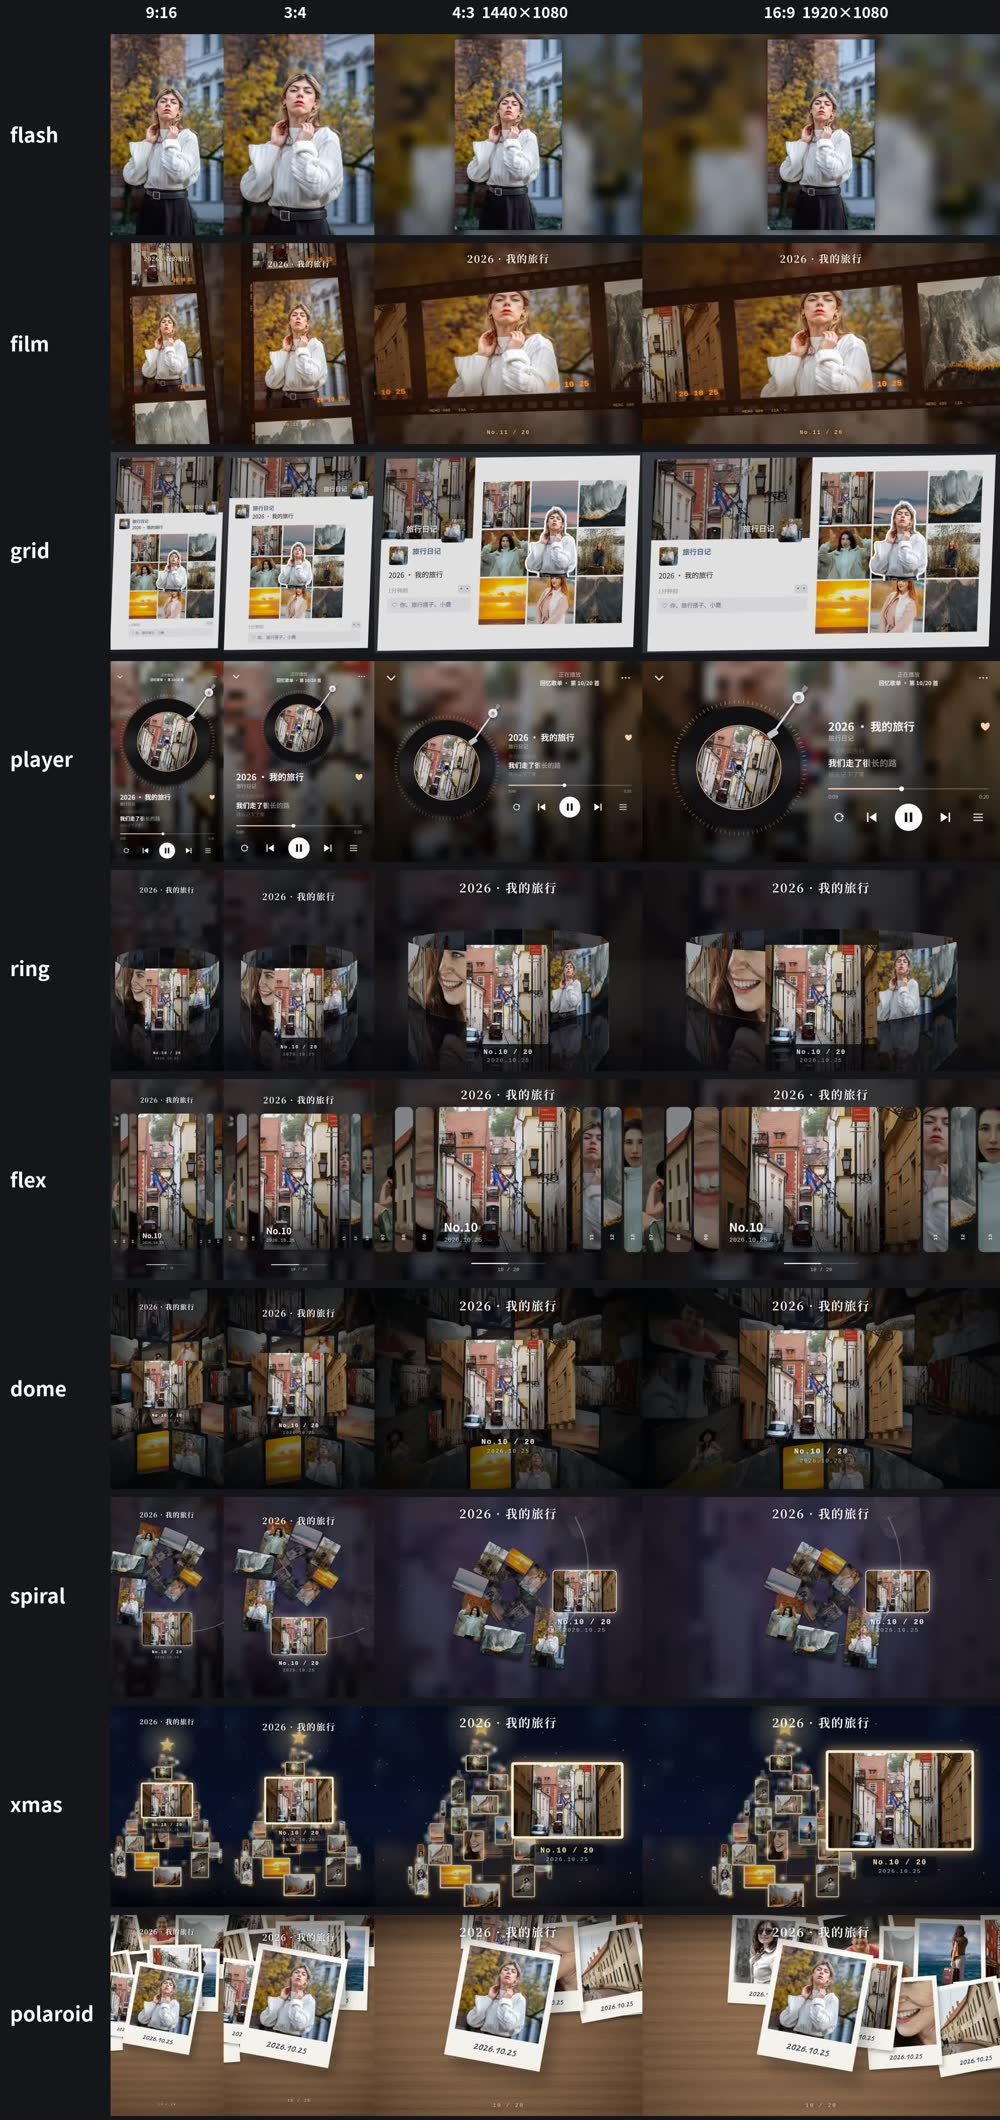
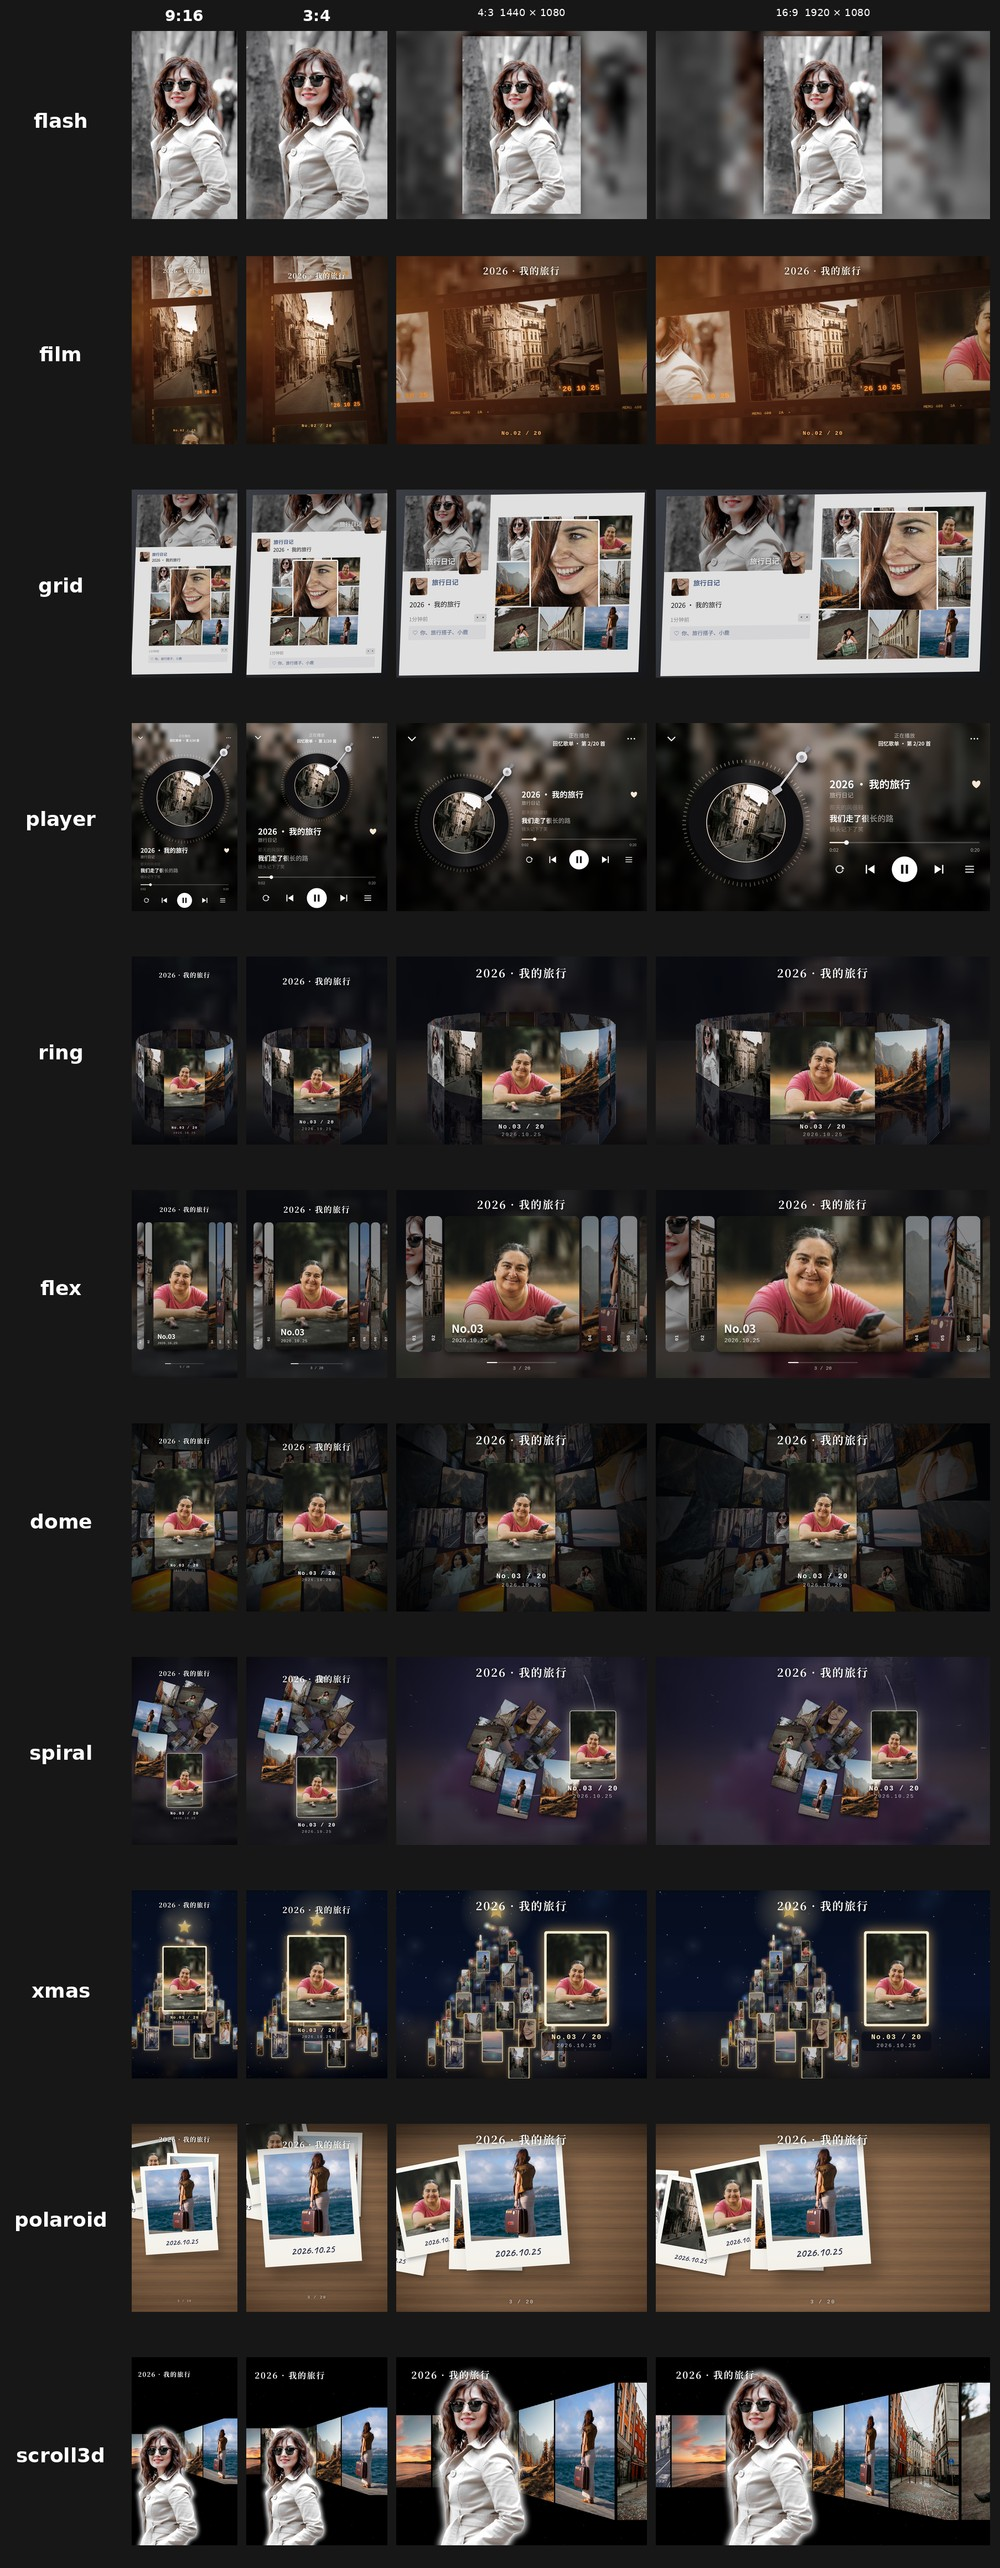
Finalize scroll3d: refresh 11-template docs collages; fix beat status for non-synced wall
- Regenerate ratios_all_templates and keyframes_all_templates to include 立体滚动照片墙
- Status bar: scroll3d no longer claims 「已按鼓点卡点」; optional pulse shows 「鼓点轻微脉动」

diff --git a/index.html b/index.html
@@ -1410,6 +1410,8 @@ REG.push((()=>{
     need(t){const G=geom(),s=new Set();for(let r=0;r<G.rows;r++)cellsOf(G,r,wrap(t),j=>s.add(st.list[j]));if(st.hero>=0)s.add(st.hero);return [...s];},
     drawFrame(c,t){ctx=c;render(wrap(t));},
     info(){return `立体滚动照片墙 · ${st.M} 张 · ${V('rows')} 排 · 无缝循环`;},
+    // 默认匀速不卡点；仅打开「鼓点轻微脉动」且已分析节拍时提示（不说「卡点」）
+    beatNote(){return (S.peaks&&V('pulse'))?' · 鼓点轻微脉动':'';},
     prepMsg:k=>`🧠 正在准备照片墙（缩小图 / 主角抠图，${k}，本机处理）…`,
     async prepare(progress){let n=await sm.prepare(k=>progress&&progress(k+'/'+S.items.length));
       for(let i=0;i<9;i++){T.init(S);if(st.kind!=='pending')break;progress&&progress('抠图 '+(i+1));n++;await SEG.segment(S.items[st.hero]);}T.init(S);return n;},
@@ -1504,7 +1506,7 @@ function buildSettings(){const box=$('tplSettings');box.innerHTML='';
     else row.innerHTML=`<label></label><span class="chk"><input type="checkbox" id="${id}"${v?' checked':''}>${s.label}</span>`;
     const el=row.querySelector('#'+id);
     el.addEventListener('input',()=>{cur.values[s.id]=s.type==='check'?el.checked:(s.type==='range'?+el.value:el.value);if(s.type==='range')row.querySelector('.val').textContent=(+el.value).toFixed(2)+' '+(s.unit||'');
-      if(s.rebuild)rebuild();if(!playing)drawIdle();renderNotices();drawThumbs();});
+      if(s.rebuild)rebuild();else if(S.items.length&&!playing)status(`${cur.info()} · 成片约 ${cur.duration.toFixed(1)} 秒`+beatSuffix());if(!playing)drawIdle();renderNotices();drawThumbs();});
     box.appendChild(row);}
   // 复选框挤在一行
   const checks=[...box.querySelectorAll('.chk')];if(checks.length>1){const r=document.createElement('div');r.className='row';r.innerHTML='<label>选项</label>';checks.forEach(c=>{c.parentNode.remove();r.appendChild(c);});box.appendChild(r);}
@@ -1516,7 +1518,7 @@ function renderNotices(){const box=$('notices');box.innerHTML='';if(demoMode||!S
 let prepRun=null;
 function prepareCur(){const T=cur;if(demoMode||!T.prepare||!S.items.length)return Promise.resolve();if(prepRun&&prepRun.T===T)return prepRun.p;
   const p=(async()=>{const n=await T.prepare(k=>{if(!playing&&T===cur)status(T.prepMsg?T.prepMsg(k):`🧠 正在自动识别人像 / 抠图（第 ${k} 张，本机运行）…`);renderNotices();drawThumbs();});
-    prepRun=null;if(T===cur){drawThumbs();renderNotices();if(n){rebuild();if(!playing)drawIdle();refreshCards();}else if(!playing)status(`${T.info()} · 成片约 ${T.duration.toFixed(1)} 秒`+(S.peaks?' · 已按鼓点卡点':''));}})();
+    prepRun=null;if(T===cur){drawThumbs();renderNotices();if(n){rebuild();if(!playing)drawIdle();refreshCards();}else if(!playing)status(`${T.info()} · 成片约 ${T.duration.toFixed(1)} 秒`+beatSuffix(T));}})();
   prepRun={T,p};return p;}
 function selectTpl(id){const T=REG.find(x=>x.id===id);if(!T)return;const was=playing;stop();cur=T;
   document.querySelectorAll('.tpl').forEach(d=>d.classList.toggle('on',d.dataset.id===id));buildSettings();rebuild();setBtns(S.items.length>0);
@@ -1524,12 +1526,14 @@ function selectTpl(id){const T=REG.find(x=>x.id===id);if(!T)return;const was=pla
 
 /* ================= 时间线 / 预览 / 导出 ================= */
 function seeded(){let s=1234567;return()=>{s=(s*16807)%2147483647;return s/2147483647}}
+// 状态栏「鼓点」文案：默认有节拍就显示「已按鼓点卡点」；模板可设 beatNote:false 关掉，或 beatNote() 返回自定义后缀（含前导「 · 」；空字符串=不显示）
+function beatSuffix(T=cur){if(typeof T.beatNote==='function')return T.beatNote()||'';if(T.beatNote===false)return '';return S.peaks?' · 已按鼓点卡点':'';}
 function rebuild(){const N=S.items.length;if(!N){return;}
   const seq=[...Array(N).keys()];if($('shuf').checked){const r=seeded();for(let i=N-1;i>0;i--){const j=Math.floor(r()*(i+1));[seq[i],seq[j]]=[seq[j],seq[i]];}}
   S.seq=seq;S.peaks=S.audioBuf?loopPeaks(S.audioBuf):null;
   for(const T of REG)T.init(S);
   if(prepRun==null&&cur.prepare)setTimeout(prepareCur,0);renderNotices();
-  status(`${cur.info()} · 成片约 ${cur.duration.toFixed(1)} 秒`+(S.peaks?' · 已按鼓点卡点':''));}
+  status(`${cur.info()} · 成片约 ${cur.duration.toFixed(1)} 秒`+beatSuffix());}
 function needSet(T,t){const s=new Set();for(const d of [0,0.5,1.0])for(const i of T.need(Math.min(T.duration-0.001,t+d)))if(i!=null)s.add(i);return s;}
 async function frameAt(T,t,c=mainCtx){await S.ensure(T.need(Math.min(t,T.duration-0.001)));T.drawFrame(c,t);}
 function drawIdle(){if(!S.items.length){mainCtx.fillStyle='#000';mainCtx.fillRect(0,0,W,H);mainCtx.fillStyle='#666';mainCtx.font=`40px ${FONT_S}`;mainCtx.textAlign='center';mainCtx.fillText('拖入照片后选模板、点「预览」',W/2,H/2);return;}

diff --git a/skill/photo-wall-studio/index.html b/skill/photo-wall-studio/index.html
@@ -1410,6 +1410,8 @@ REG.push((()=>{
     need(t){const G=geom(),s=new Set();for(let r=0;r<G.rows;r++)cellsOf(G,r,wrap(t),j=>s.add(st.list[j]));if(st.hero>=0)s.add(st.hero);return [...s];},
     drawFrame(c,t){ctx=c;render(wrap(t));},
     info(){return `立体滚动照片墙 · ${st.M} 张 · ${V('rows')} 排 · 无缝循环`;},
+    // 默认匀速不卡点；仅打开「鼓点轻微脉动」且已分析节拍时提示（不说「卡点」）
+    beatNote(){return (S.peaks&&V('pulse'))?' · 鼓点轻微脉动':'';},
     prepMsg:k=>`🧠 正在准备照片墙（缩小图 / 主角抠图，${k}，本机处理）…`,
     async prepare(progress){let n=await sm.prepare(k=>progress&&progress(k+'/'+S.items.length));
       for(let i=0;i<9;i++){T.init(S);if(st.kind!=='pending')break;progress&&progress('抠图 '+(i+1));n++;await SEG.segment(S.items[st.hero]);}T.init(S);return n;},
@@ -1504,7 +1506,7 @@ function buildSettings(){const box=$('tplSettings');box.innerHTML='';
     else row.innerHTML=`<label></label><span class="chk"><input type="checkbox" id="${id}"${v?' checked':''}>${s.label}</span>`;
     const el=row.querySelector('#'+id);
     el.addEventListener('input',()=>{cur.values[s.id]=s.type==='check'?el.checked:(s.type==='range'?+el.value:el.value);if(s.type==='range')row.querySelector('.val').textContent=(+el.value).toFixed(2)+' '+(s.unit||'');
-      if(s.rebuild)rebuild();if(!playing)drawIdle();renderNotices();drawThumbs();});
+      if(s.rebuild)rebuild();else if(S.items.length&&!playing)status(`${cur.info()} · 成片约 ${cur.duration.toFixed(1)} 秒`+beatSuffix());if(!playing)drawIdle();renderNotices();drawThumbs();});
     box.appendChild(row);}
   // 复选框挤在一行
   const checks=[...box.querySelectorAll('.chk')];if(checks.length>1){const r=document.createElement('div');r.className='row';r.innerHTML='<label>选项</label>';checks.forEach(c=>{c.parentNode.remove();r.appendChild(c);});box.appendChild(r);}
@@ -1516,7 +1518,7 @@ function renderNotices(){const box=$('notices');box.innerHTML='';if(demoMode||!S
 let prepRun=null;
 function prepareCur(){const T=cur;if(demoMode||!T.prepare||!S.items.length)return Promise.resolve();if(prepRun&&prepRun.T===T)return prepRun.p;
   const p=(async()=>{const n=await T.prepare(k=>{if(!playing&&T===cur)status(T.prepMsg?T.prepMsg(k):`🧠 正在自动识别人像 / 抠图（第 ${k} 张，本机运行）…`);renderNotices();drawThumbs();});
-    prepRun=null;if(T===cur){drawThumbs();renderNotices();if(n){rebuild();if(!playing)drawIdle();refreshCards();}else if(!playing)status(`${T.info()} · 成片约 ${T.duration.toFixed(1)} 秒`+(S.peaks?' · 已按鼓点卡点':''));}})();
+    prepRun=null;if(T===cur){drawThumbs();renderNotices();if(n){rebuild();if(!playing)drawIdle();refreshCards();}else if(!playing)status(`${T.info()} · 成片约 ${T.duration.toFixed(1)} 秒`+beatSuffix(T));}})();
   prepRun={T,p};return p;}
 function selectTpl(id){const T=REG.find(x=>x.id===id);if(!T)return;const was=playing;stop();cur=T;
   document.querySelectorAll('.tpl').forEach(d=>d.classList.toggle('on',d.dataset.id===id));buildSettings();rebuild();setBtns(S.items.length>0);
@@ -1524,12 +1526,14 @@ function selectTpl(id){const T=REG.find(x=>x.id===id);if(!T)return;const was=pla
 
 /* ================= 时间线 / 预览 / 导出 ================= */
 function seeded(){let s=1234567;return()=>{s=(s*16807)%2147483647;return s/2147483647}}
+// 状态栏「鼓点」文案：默认有节拍就显示「已按鼓点卡点」；模板可设 beatNote:false 关掉，或 beatNote() 返回自定义后缀（含前导「 · 」；空字符串=不显示）
+function beatSuffix(T=cur){if(typeof T.beatNote==='function')return T.beatNote()||'';if(T.beatNote===false)return '';return S.peaks?' · 已按鼓点卡点':'';}
 function rebuild(){const N=S.items.length;if(!N){return;}
   const seq=[...Array(N).keys()];if($('shuf').checked){const r=seeded();for(let i=N-1;i>0;i--){const j=Math.floor(r()*(i+1));[seq[i],seq[j]]=[seq[j],seq[i]];}}
   S.seq=seq;S.peaks=S.audioBuf?loopPeaks(S.audioBuf):null;
   for(const T of REG)T.init(S);
   if(prepRun==null&&cur.prepare)setTimeout(prepareCur,0);renderNotices();
-  status(`${cur.info()} · 成片约 ${cur.duration.toFixed(1)} 秒`+(S.peaks?' · 已按鼓点卡点':''));}
+  status(`${cur.info()} · 成片约 ${cur.duration.toFixed(1)} 秒`+beatSuffix());}
 function needSet(T,t){const s=new Set();for(const d of [0,0.5,1.0])for(const i of T.need(Math.min(T.duration-0.001,t+d)))if(i!=null)s.add(i);return s;}
 async function frameAt(T,t,c=mainCtx){await S.ensure(T.need(Math.min(t,T.duration-0.001)));T.drawFrame(c,t);}
 function drawIdle(){if(!S.items.length){mainCtx.fillStyle='#000';mainCtx.fillRect(0,0,W,H);mainCtx.fillStyle='#666';mainCtx.font=`40px ${FONT_S}`;mainCtx.textAlign='center';mainCtx.fillText('拖入照片后选模板、点「预览」',W/2,H/2);return;}

diff --git a/README.md b/README.md
@@ -63,7 +63,7 @@
 - 不支持 HEIC（请先转 JPG）。
 
 ### 预览
-四种比例 × 10 个模板（截图暂未包含第 11 个「立体滚动照片墙」）：
+四种比例 × 11 个模板：
 
 ![ratios](docs/img/ratios_all_templates.jpg)
 
